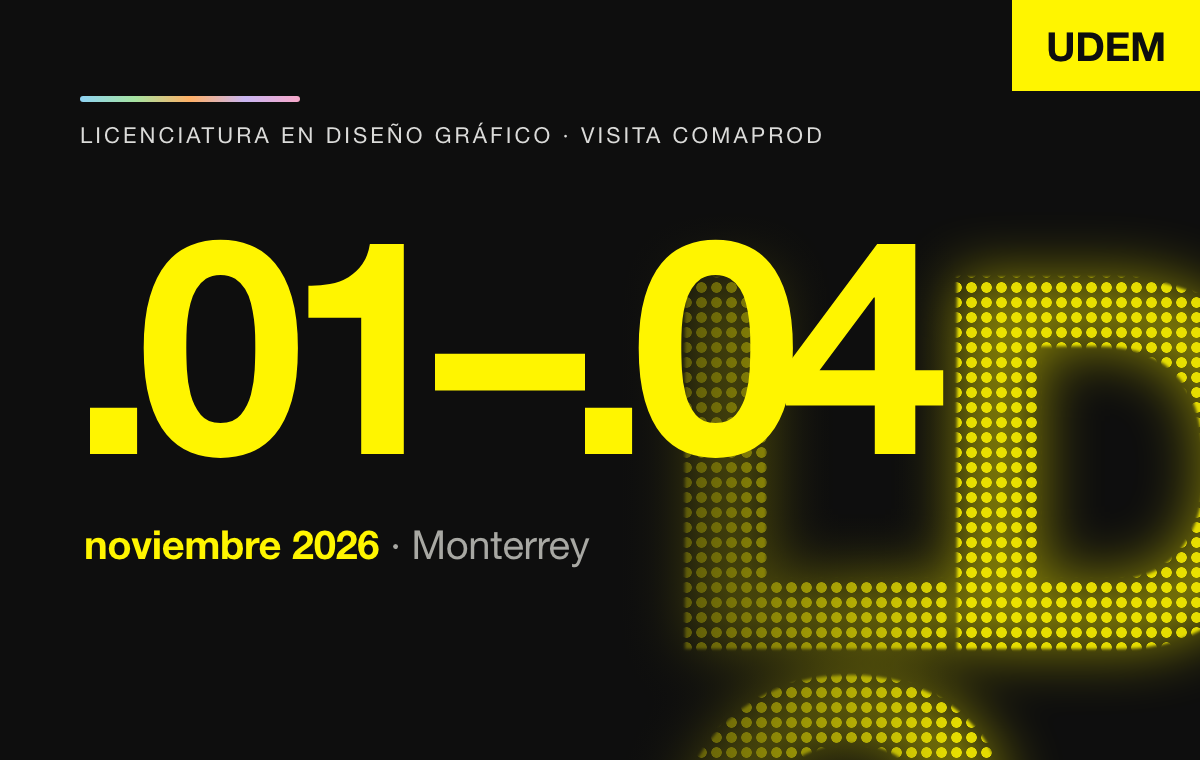
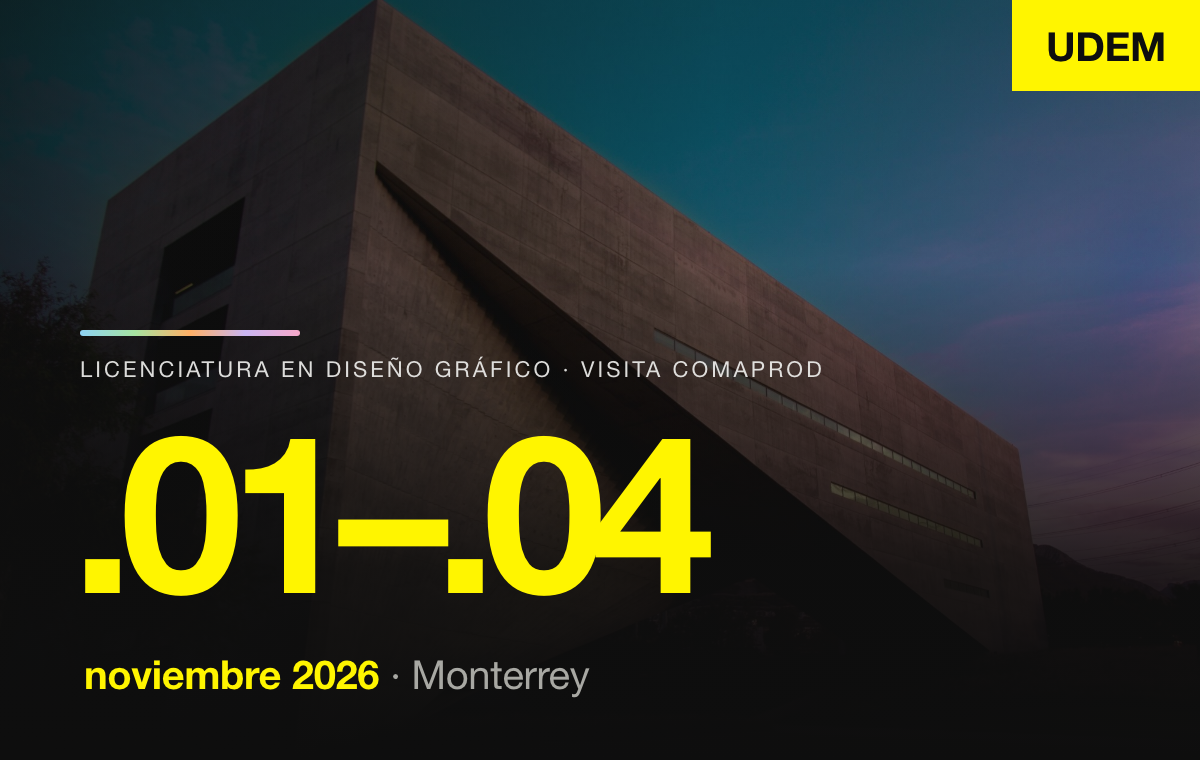
Acreditación: foto del CRGS en el héroe de la página y del correo; fuera el LDG de puntos

diff --git a/acreditacion/index.html b/acreditacion/index.html
@@ -33,17 +33,16 @@ a{color:inherit}
   background:linear-gradient(90deg,var(--e1),var(--e2),var(--e3),var(--e4),var(--e5))}
 
 /* ---------- héroe ---------- */
-.hero{position:relative;overflow:hidden;padding:96px 0 48px;min-height:92vh;display:flex;align-items:flex-end}
+.hero{position:relative;overflow:hidden;padding:96px 0 56px;min-height:96vh;display:flex;align-items:flex-end}
 .hero .wrap{position:relative;z-index:2}
 .hero h1{font-size:clamp(44px,8vw,112px);font-weight:700;line-height:.95;letter-spacing:-.035em;margin:12px 0 22px;max-width:12ch}
 .hero .num{color:var(--yellow);font-weight:700;font-size:clamp(64px,12vw,170px);line-height:.9;letter-spacing:-.06em;margin:0 0 10px}
 .hero p{font-size:clamp(17px,1.6vw,20px);color:var(--ink-soft);max-width:58ch;margin:0}
 .hero p b{color:var(--ink);font-weight:700}
-.ghost{position:absolute;right:-4vw;bottom:-6vw;z-index:0;font-weight:700;font-size:clamp(220px,38vw,560px);line-height:.78;letter-spacing:-.07em;color:var(--yellow);
-  -webkit-mask-image:radial-gradient(circle,#000 0 5px,transparent 5.6px);mask-image:radial-gradient(circle,#000 0 5px,transparent 5.6px);
-  -webkit-mask-size:15px 15px;mask-size:15px 15px;filter:blur(1.5px);opacity:.75;pointer-events:none;user-select:none}
-.ghost.glow{-webkit-mask-image:none;mask-image:none;filter:blur(34px);opacity:.45}
-.fade{position:absolute;inset:0;z-index:1;background:linear-gradient(90deg,var(--bg) 0%,var(--bg) 38%,rgba(14,14,14,.6) 58%,rgba(14,14,14,0) 82%)}
+.photo{position:absolute;inset:0;z-index:0;background:url('../assets/crgs-hero.jpg') center 35%/cover no-repeat}
+.fade{position:absolute;inset:0;z-index:1;background:
+  linear-gradient(180deg,rgba(14,14,14,.35) 0%,rgba(14,14,14,.15) 40%,rgba(14,14,14,.85) 78%,var(--bg) 100%),
+  linear-gradient(90deg,rgba(14,14,14,.75) 0%,rgba(14,14,14,.35) 50%,rgba(14,14,14,.1) 100%)}
 
 /* ---------- en vivo: stepper de la jornada ----------
    Adaptación del patrón «shipment timeline» (ReUI stepper 18) a HTML plano:
@@ -194,10 +193,9 @@ footer a{color:var(--ink-soft);text-decoration:none;border-bottom:1px solid var(
 footer a:hover{color:var(--yellow);border-color:var(--yellow)}
 
 @media(max-width:720px){
-  .hero{min-height:auto;padding:88px 0 40px}
-  .ghost{opacity:.35;bottom:auto;top:40px;right:-30vw;font-size:300px}
-  .ghost.glow{opacity:.25}
-  .fade{background:linear-gradient(180deg,rgba(14,14,14,0) 0%,rgba(14,14,14,.75) 35%,var(--bg) 70%)}
+  .hero{min-height:88vh;padding:88px 0 40px}
+  .photo{background-position:62% 20%}
+  .fade{background:linear-gradient(180deg,rgba(14,14,14,.3) 0%,rgba(14,14,14,.55) 40%,rgba(14,14,14,.92) 75%,var(--bg) 100%)}
   .agenda thead{display:none}
   .agenda tr{display:grid;grid-template-columns:1fr;gap:4px;padding:14px 0;border-bottom:1px solid var(--line)}
   .agenda td{border:0;padding:0}
@@ -206,7 +204,7 @@ footer a:hover{color:var(--yellow);border-color:var(--yellow)}
 }
 @media print{
   body{background:#fff;color:#000}
-  .tag,.days,.ghost,.fade{display:none}
+  .tag,.days,.photo,.fade{display:none}
   .hero{min-height:auto;padding:24px 0}
   .agenda td.h{color:#000}
 }
@@ -217,8 +215,7 @@ footer a:hover{color:var(--yellow);border-color:var(--yellow)}
 <div class="tag">UDEM</div>
 
 <header class="hero">
-  <div class="ghost glow" aria-hidden="true">LD<br>G</div>
-  <div class="ghost" aria-hidden="true">LD<br>G</div>
+  <div class="photo" aria-hidden="true"></div>
   <div class="fade" aria-hidden="true"></div>
   <div class="wrap">
     <span class="eje-line" aria-hidden="true"></span>
